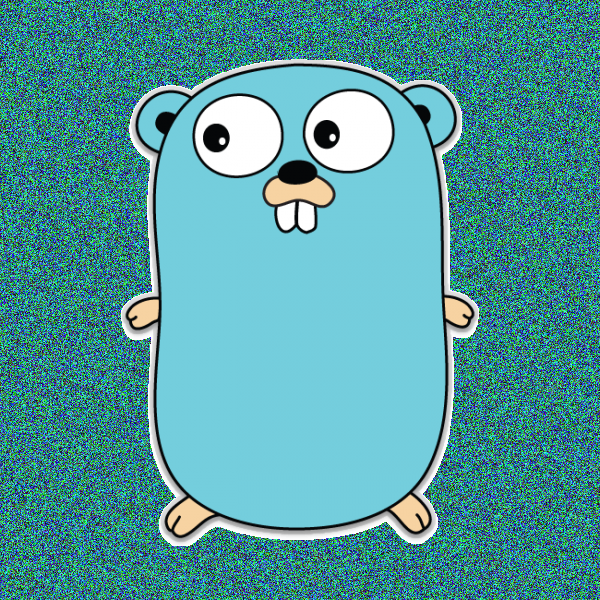
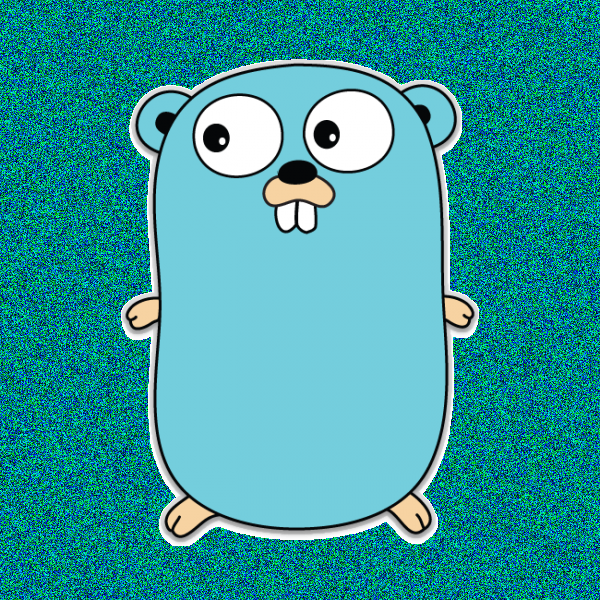
Added loop in main

diff --git a/main.go b/main.go
@@ -96,12 +96,15 @@ func generateGif() {
 }
 
 func main() {
-	img, _ := loadImage("go.png")
-	newImg := zeroToRandom(img)
+	for imageNum := 1; imageNum <= 10; imageNum++ {
+		img, _ := loadImage("go.png")
+		newImg := zeroToRandom(img)
+		name := strings.Join([]string{"gen/new_", strconv.Itoa(imageNum), ".png"}, "")
 
-	f, _ := os.Create("gen/new_1.png")
-	defer f.Close()
-	png.Encode(f, newImg)
+		f, _ := os.Create(name)
+		defer f.Close()
+		png.Encode(f, newImg)
+	}
 
 	generateGif()
 }
